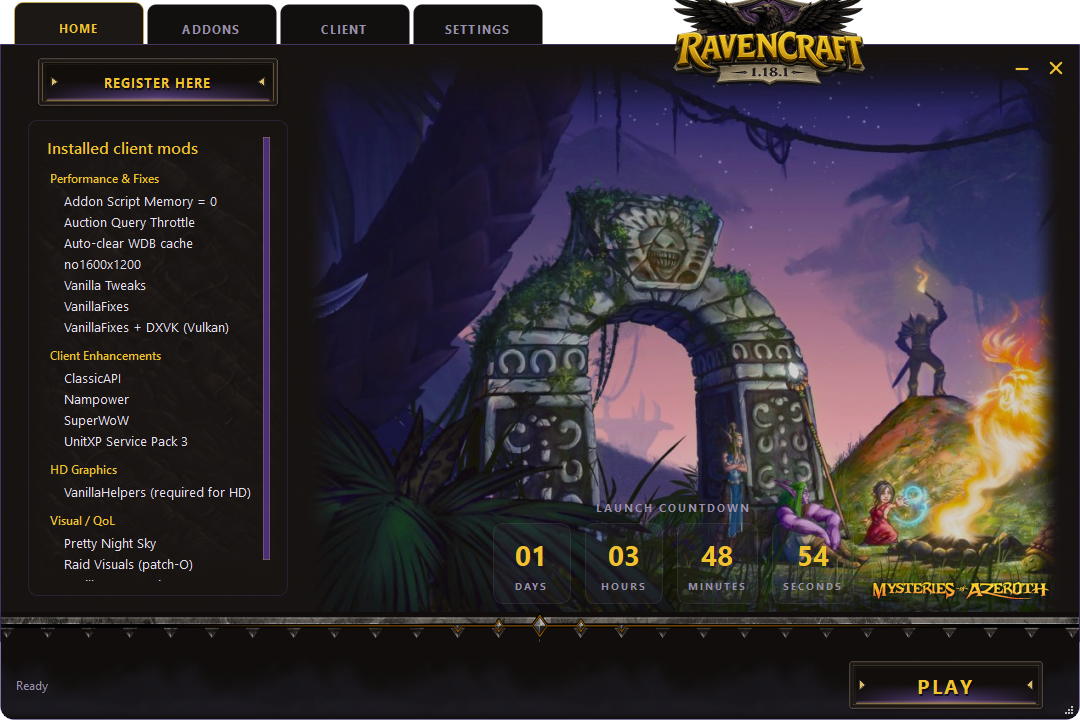
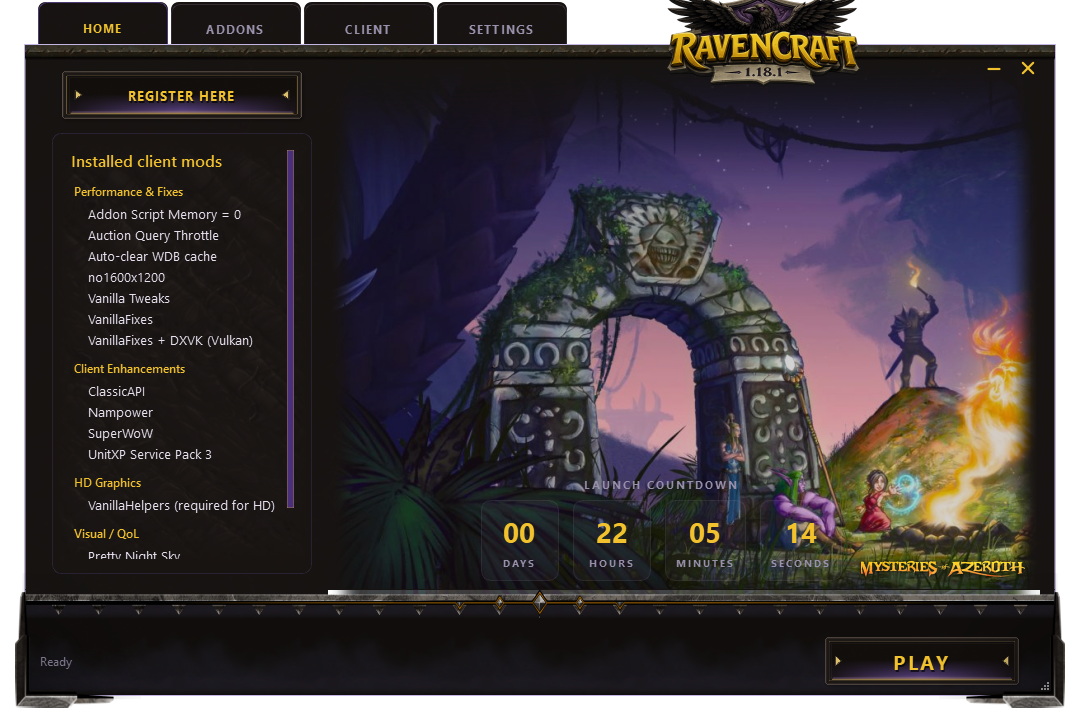
Refresh README screenshots with transparent chrome and a mid-fill loading-bar shot.
Capture ARGB PNGs so tab gutters, rounded corners, and the RavenCraft crest overhang read against GitHub's page background.

diff --git a/tools/capture_screenshots.py b/tools/capture_screenshots.py
@@ -1,12 +1,17 @@
-"""Grab MainWindow pages to docs/screenshots/ for README / release notes."""
+"""Grab MainWindow pages to docs/screenshots/ for README / release notes.
+
+Captures with an alpha channel so tab gutters, rounded bottom corners, and the
+RavenCraft crest overhang stay transparent against the README background.
+"""
 
 from __future__ import annotations
 
 import sys
 from pathlib import Path
 
-from PySide6.QtCore import QTimer
-from PySide6.QtWidgets import QApplication
+from PySide6.QtCore import QPoint, QTimer, Qt
+from PySide6.QtGui import QColor, QImage, QPainter, QRegion
+from PySide6.QtWidgets import QApplication, QWidget
 
 ROOT = Path(__file__).resolve().parents[1]
 if str(ROOT) not in sys.path:
@@ -18,15 +23,167 @@ from ichalaunch.ui.main_window import MainWindow
 from ichalaunch.ui.widgets.dialogs import ThemedDialog
 
 OUT = ROOT / "docs" / "screenshots"
-PAGES = ("home", "addons", "client", "settings")
+# (filename stem, nav index, show mid-fill ThemeLoadingBar)
+SHOTS: tuple[tuple[str, int, bool], ...] = (
+    ("home", 0, False),
+    ("home-loading", 0, True),
+    ("addons", 1, False),
+    ("client", 2, False),
+    ("settings", 3, False),
+)
+# Unique fill used only if render() composites opaque; punched back to alpha 0.
+_CHROMA = QColor(0, 255, 1)
+_CHROMA_TOL = 10
 # Allow talent art / overlays / countdown to settle before the first grab.
 _SETTLE_MS = 1800
-_PAGE_PAUSE_MS = 350
+_PAGE_PAUSE_MS = 400
+_FAILSAFE_MS = 90_000
+_MIN_TRANSPARENT_FRAC = 0.012
+
+
+def _new_argb(widget: QWidget, fill: QColor) -> QImage:
+    dpr = max(1.0, float(widget.devicePixelRatioF()))
+    w = max(1, int(round(widget.width() * dpr)))
+    h = max(1, int(round(widget.height() * dpr)))
+    img = QImage(w, h, QImage.Format.Format_ARGB32)
+    img.setDevicePixelRatio(dpr)
+    img.fill(fill)
+    return img
+
+
+def _render_children(widget: QWidget, img: QImage) -> None:
+    painter = QPainter(img)
+    painter.setRenderHint(QPainter.RenderHint.Antialiasing, True)
+    painter.setRenderHint(QPainter.RenderHint.SmoothPixmapTransform, True)
+    # Omit DrawWindowBackground so our transparent/chroma fill stays in the gutters.
+    widget.render(
+        painter,
+        QPoint(0, 0),
+        QRegion(),
+        QWidget.RenderFlag.DrawChildren,
+    )
+    painter.end()
+
+
+def _alpha_stats(img: QImage) -> tuple[int, int, float]:
+    """Return (transparent-ish pixels, total, fraction) for alpha < 250."""
+    src = img.convertToFormat(QImage.Format.Format_ARGB32)
+    total = src.width() * src.height()
+    if total <= 0:
+        return 0, 0, 0.0
+    clear = 0
+    for y in range(src.height()):
+        for x in range(src.width()):
+            if src.pixelColor(x, y).alpha() < 250:
+                clear += 1
+    return clear, total, clear / total
+
+
+def _punch_chroma(img: QImage, chroma: QColor, tolerance: int) -> QImage:
+    """Set near-chroma pixels to alpha 0 (Windows grab / opaque-composite fallback)."""
+    out = img.convertToFormat(QImage.Format.Format_ARGB32)
+    cr, cg, cb = chroma.red(), chroma.green(), chroma.blue()
+    tol = int(tolerance)
+    for y in range(out.height()):
+        for x in range(out.width()):
+            c = out.pixelColor(x, y)
+            if (
+                abs(c.red() - cr) <= tol
+                and abs(c.green() - cg) <= tol
+                and abs(c.blue() - cb) <= tol
+            ):
+                c.setAlpha(0)
+                out.setPixelColor(x, y, c)
+    return out
+
+
+def _recover_alpha(over_black: QImage, over_white: QImage) -> QImage:
+    """Rebuild alpha from SourceOver onto black vs white (artwork-safe)."""
+    black = over_black.convertToFormat(QImage.Format.Format_ARGB32)
+    white = over_white.convertToFormat(QImage.Format.Format_ARGB32)
+    out = QImage(black.size(), QImage.Format.Format_ARGB32)
+    out.setDevicePixelRatio(black.devicePixelRatio())
+    for y in range(black.height()):
+        for x in range(black.width()):
+            pb = black.pixelColor(x, y)
+            pw = white.pixelColor(x, y)
+            inv = (pw.red() - pb.red() + pw.green() - pb.green() + pw.blue() - pb.blue()) / 3.0
+            inv = max(0.0, min(255.0, inv))
+            a = 255.0 - inv
+            if a < 1.5:
+                out.setPixelColor(x, y, QColor(0, 0, 0, 0))
+            elif a >= 253.0:
+                out.setPixelColor(x, y, QColor(pb.red(), pb.green(), pb.blue(), 255))
+            else:
+                s = a / 255.0
+                out.setPixelColor(
+                    x,
+                    y,
+                    QColor(
+                        min(255, int(round(pb.red() / s))),
+                        min(255, int(round(pb.green() / s))),
+                        min(255, int(round(pb.blue() / s))),
+                        int(round(a)),
+                    ),
+                )
+    return out
+
+
+def grab_widget_alpha(widget: QWidget) -> tuple[QImage, str]:
+    """Capture *widget* to ARGB32, preserving gutter / rounded-corner holes.
+
+    Tries a transparent render first. If Windows flattens alpha, recovers it
+    via black/white composites, then chroma punch as a last resort.
+    """
+    transparent = Qt.GlobalColor.transparent
+    img = _new_argb(widget, QColor(transparent))
+    _render_children(widget, img)
+    _clear, _total, frac = _alpha_stats(img)
+    if frac >= _MIN_TRANSPARENT_FRAC:
+        return img, f"render-argb ({frac:.1%} transparent)"
+
+    # Dual composite: pixels that change between black and white were see-through.
+    over_black = _new_argb(widget, QColor(0, 0, 0, 255))
+    _render_children(widget, over_black)
+    over_white = _new_argb(widget, QColor(255, 255, 255, 255))
+    _render_children(widget, over_white)
+    recovered = _recover_alpha(over_black, over_white)
+    _clear, _total, frac = _alpha_stats(recovered)
+    if frac >= _MIN_TRANSPARENT_FRAC:
+        return recovered, f"black-white matte ({frac:.1%} transparent)"
+
+    chroma_img = _new_argb(widget, _CHROMA)
+    _render_children(widget, chroma_img)
+    punched = _punch_chroma(chroma_img, _CHROMA, _CHROMA_TOL)
+    _clear, _total, frac = _alpha_stats(punched)
+    return punched, f"chroma punch ({frac:.1%} transparent)"
+
+
+def _set_loading_bar(win: MainWindow, on: bool) -> None:
+    bar = win.progress
+    if on:
+        bar.show()
+        bar.setRange(0, 100)
+        bar.setValue(55)
+        bar.setFormat("%p%")
+        win.status_lbl.setText("Checking addon updates…")
+    else:
+        bar.hide()
+        bar.setRange(0, 100)
+        bar.setValue(0)
+        bar.setFormat("%p%")
+        win.status_lbl.setText("Ready")
+
+
+def _save_png(img: QImage, dest: Path) -> None:
+    dest.parent.mkdir(parents=True, exist_ok=True)
+    if not img.save(str(dest), "PNG"):
+        raise RuntimeError(f"Failed to write {dest}")
 
 
 def main() -> int:
     OUT.mkdir(parents=True, exist_ok=True)
-    # Avoid mid-scan progress chrome in docs screenshots.
+    # Avoid mid-scan progress chrome except the dedicated loading-bar shot.
     main_window_mod._STARTUP_UPDATE_DELAY_MS = 24 * 60 * 60 * 1000
     app = QApplication(sys.argv)
     app.setApplicationName("IchaLaunch")
@@ -36,12 +193,15 @@ def main() -> int:
     win = MainWindow()
     if icon is not None:
         win.setWindowIcon(icon)
+    win.setAttribute(Qt.WidgetAttribute.WA_TranslucentBackground, True)
     win.resize(1080, 720)
     win.show()
     app.processEvents()
 
+    QTimer.singleShot(_FAILSAFE_MS, app.quit)
+
     def grab_pages(idx: int = 0) -> None:
-        if idx >= len(PAGES):
+        if idx >= len(SHOTS):
             dlg = ThemedDialog(
                 win,
                 "Ready",
@@ -52,25 +212,33 @@ def main() -> int:
             app.processEvents()
             dlg.adjustSize()
             app.processEvents()
-            dlg_pix = dlg.grab()
+            dlg_img, how = grab_widget_alpha(dlg)
             dlg_path = OUT / "themed_dialog.png"
-            dlg_pix.save(str(dlg_path), "PNG")
-            print(f"Wrote {dlg_path}")
+            _save_png(dlg_img, dlg_path)
+            print(f"Wrote {dlg_path} via {how}")
             dlg.close()
             win.close()
             app.quit()
             return
 
-        name = PAGES[idx]
-        win._nav(idx)
+        name, page, loading = SHOTS[idx]
+        win._nav(page)
+        _set_loading_bar(win, loading)
+        app.processEvents()
+        win._position_frame_stroke()
+        win._position_side_corners()
+        win._position_rc_logo()
+        win._position_chrome_buttons()
+        win._raise_side_corners()
         app.processEvents()
 
         def snap() -> None:
             app.processEvents()
-            pix = win.grab()
+            target = win.centralWidget() or win
+            img, how = grab_widget_alpha(target)
             dest = OUT / f"{name}.png"
-            pix.save(str(dest), "PNG")
-            print(f"Wrote {dest}")
+            _save_png(img, dest)
+            print(f"Wrote {dest} via {how} ({img.width()}x{img.height()})")
             grab_pages(idx + 1)
 
         QTimer.singleShot(_PAGE_PAUSE_MS, snap)

diff --git a/README.md b/README.md
@@ -47,9 +47,19 @@ Official hosted client zip install is not required if you already have a 1.18 cl
 
 ## Screenshots
 
+These are PNGs with a **transparent background**, so the folder tabs, rounded bottom corners, and RavenCraft crest overhang show against GitHub’s light or dark page — not a solid rectangle.
+
 ### Home
 
 ![Home](docs/screenshots/home.png)
+
+Closed purple frame, Mechagon top rail, HOME art, crest on the shelf, and the nav banner above Play.
+
+### Loading bar
+
+![Home with loading bar](docs/screenshots/home-loading.png)
+
+The play strip’s loading bar mid-fill (addon and client-mod checks, downloads, and similar work).
 
 ### Addons
 
